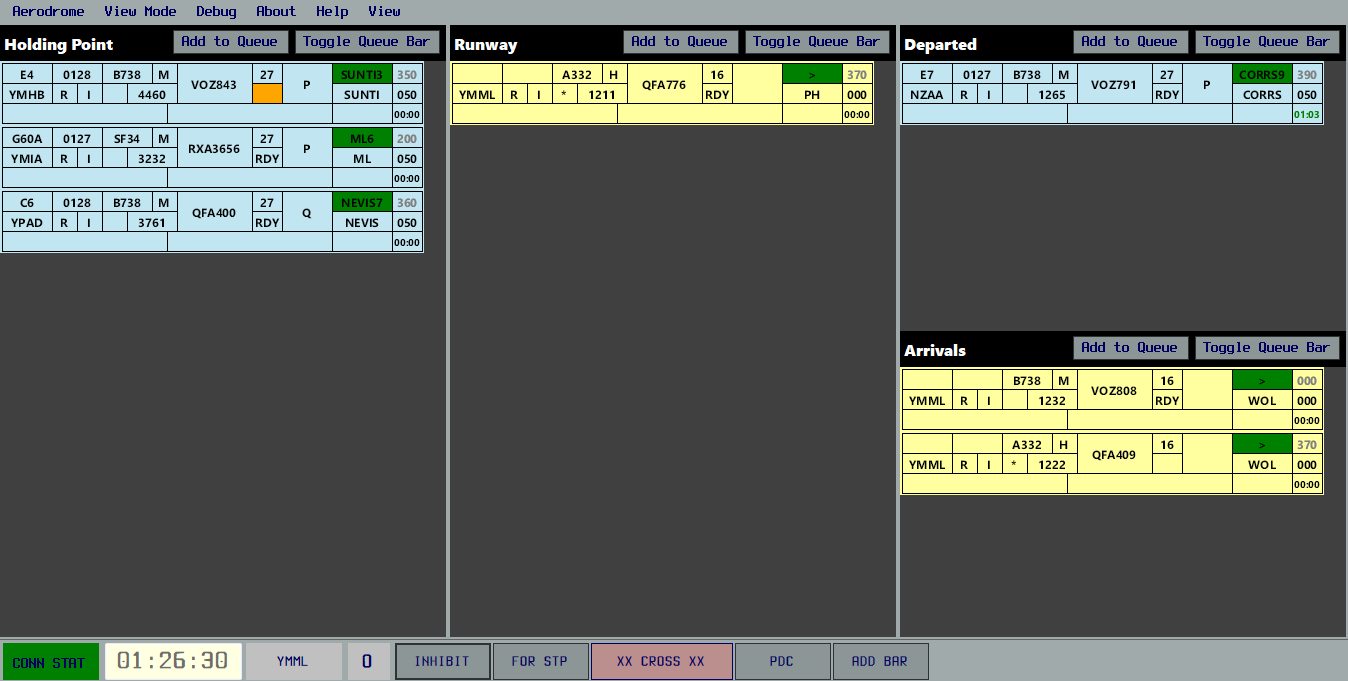
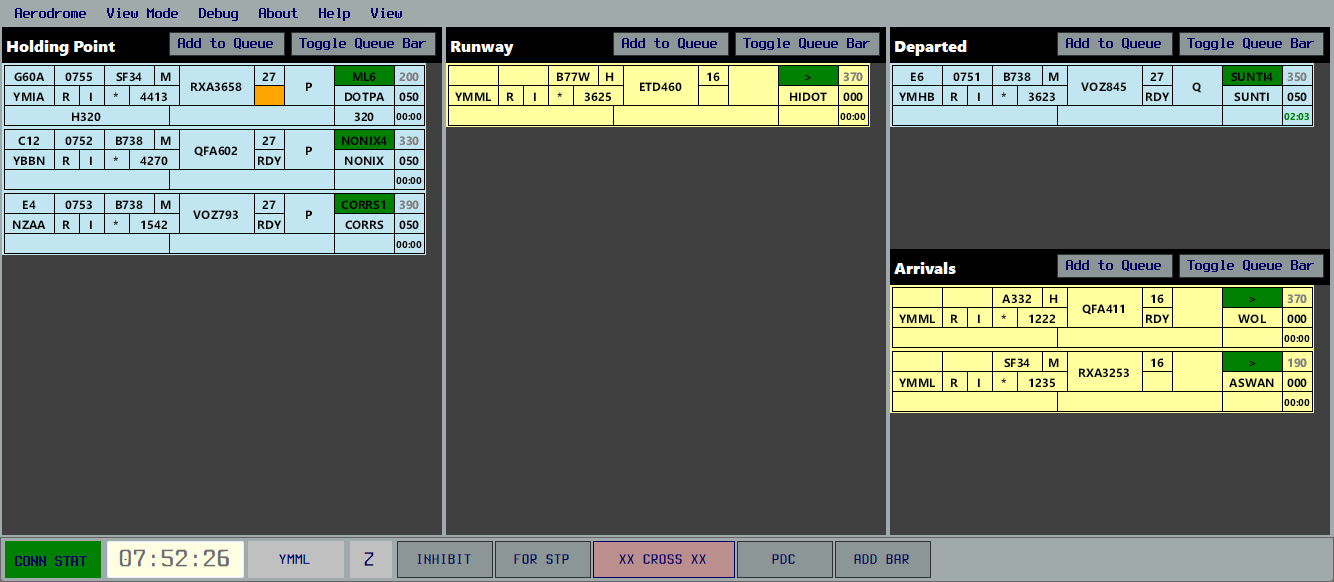
Update SOPs for latest OzStrips upate

Changed region(s): [[0.0, 0.0, 1.0, 0.4639], [0.6454, 0.4021, 1.0, 0.7423], [0.0, 0.8969, 1.0, 1.0]]

diff --git a/docs/client/towerstrips.md b/docs/client/towerstrips.md
@@ -133,23 +133,30 @@ If multiple aircraft request clearance at once, [queue](#queue-management) the s
     <figcaption>An example of the ACD layout and workflow</figcaption>
 </figure>
 
+SIDs with a transition are indicated by a yellow border on the SID box. Hover over the box to reveal the transition.
+
+<figure markdown>
+![SID Transition](../controller-skills/img/ozstripssidtransition.png){ width="500" }
+    <figcaption>QFA427 assigned the MARUB7 SID with WOL transition</figcaption>
+</figure>
+
 #### Flight Plan Errors
 OzStrips will flag any potentially invalid routes and incorrect hemispherical levels. Hover over a flag to learn more about the error.
 
 <figure markdown>
-![Invalid Level](../controller-skills/img/ozstripsbadlevel.png){ width="500" }
+![Invalid Level](../controller-skills/img/ozstripsbadlevel.png){ width="450" }
     <figcaption>A potentially invalid level, shown by the red background on the CFL box</figcaption>
 </figure>
 
 Right mouse click on the yellow first waypoint box to open the Reroute menu. From here, controllers can select a more compliant route. The [VATPAC Tools](https://vatpac.org/membership-hub/tools){target=new} page can be helpful to double check these routes.
 
 <figure markdown>
-![Invalid Route](../controller-skills/img/ozstripsbadroute.png){ width="500" }
+![Invalid Route](../controller-skills/img/ozstripsbadroute.png){ width="450" }
     <figcaption>A potentially invalid route, shown by the yellow background on the first waypoint box</figcaption>
 </figure>
 
 <figure markdown>
-![SID assigned to VFR Aircraft](../controller-skills/img/ozstripsvfrsid.png){ width="500" }
+![SID assigned to VFR Aircraft](../controller-skills/img/ozstripsvfrsid.png){ width="450" }
     <figcaption>A VFR aircraft assigned a SID, shown by the yellow background on the SID box</figcaption>
 </figure>
 
@@ -181,6 +188,13 @@ When a departure is issued pushback, move them to the **Pushback Bay**. If pushb
     See [Coordinator](#coordinator) above for the procedure to follow when a Coordinator position is active (or [pushback requests](../controller-skills/grounddelaymanagement.md#pushback-requests-on-acd) are being managed by ACD). Remember that the bottom most aircraft is always the first in line.
 
 When taxi instructions are issued, move the strip to the **Taxi Bay** and enter the relevant instructions in the Global Ops field. When the aircraft is given taxi to the holding point at their assigned departure runway, enter the holding point in the Holding Point field.
+
+OzStrips will check the output of a departure's transponder to ensure they are squawking the assigned SSR code and have selected Mode C. If either of these two conditions are not met, the squawk boxes will highlight orange.
+
+<figure markdown>
+![Incorrect Transponder Output](../controller-skills/img/ozstripssquawk.png){ width="500" }
+    <figcaption>TGG721 is either not squawking the assigned code or not squawking Mode C</figcaption>
+</figure>
 
 As the aircraft approaches the holding point, or when frequency transfer is given to Tower (for international aircraft or new pilots), move the strip to the **Holding Point Bay** and clear the Global Ops field (so ADC can use it for their purposes).
 
@@ -219,7 +233,12 @@ When a departing aircraft calls ready, click the Ready flag to denote this on th
 !!! tip
     The Ready flag will highlight orange if the aircraft is in the **Holding Point Bay** and the aircraft has not called ready (to prevent inadvertent takeoff clearances being issued).
 
-For aircraft on a radar SID or visual departure, record any assigned heading instructions in the Departure Heading field. This will also populate the Global Ops field automatically.
+For aircraft on a radar SID or visual departure, record any assigned heading instructions in the Departure Heading field. This will also populate the Global Ops field automatically. The Departure Heading box will highlight orange for aircraft assigned a radar SID who have not yet had their departure instructions entered.
+
+<figure markdown>
+![Departure Instructions](../controller-skills/img/ozstripsradarsid.png){ width="450" }
+    <figcaption>RXA6418 is assigned the radar SID but no departure instructions have been entered</figcaption>
+</figure>
 
 When an instruction to line up is given, move the strip to the **Runway Bay**. When a takeoff clearance is issued, start the Takeoff Timer.
 
